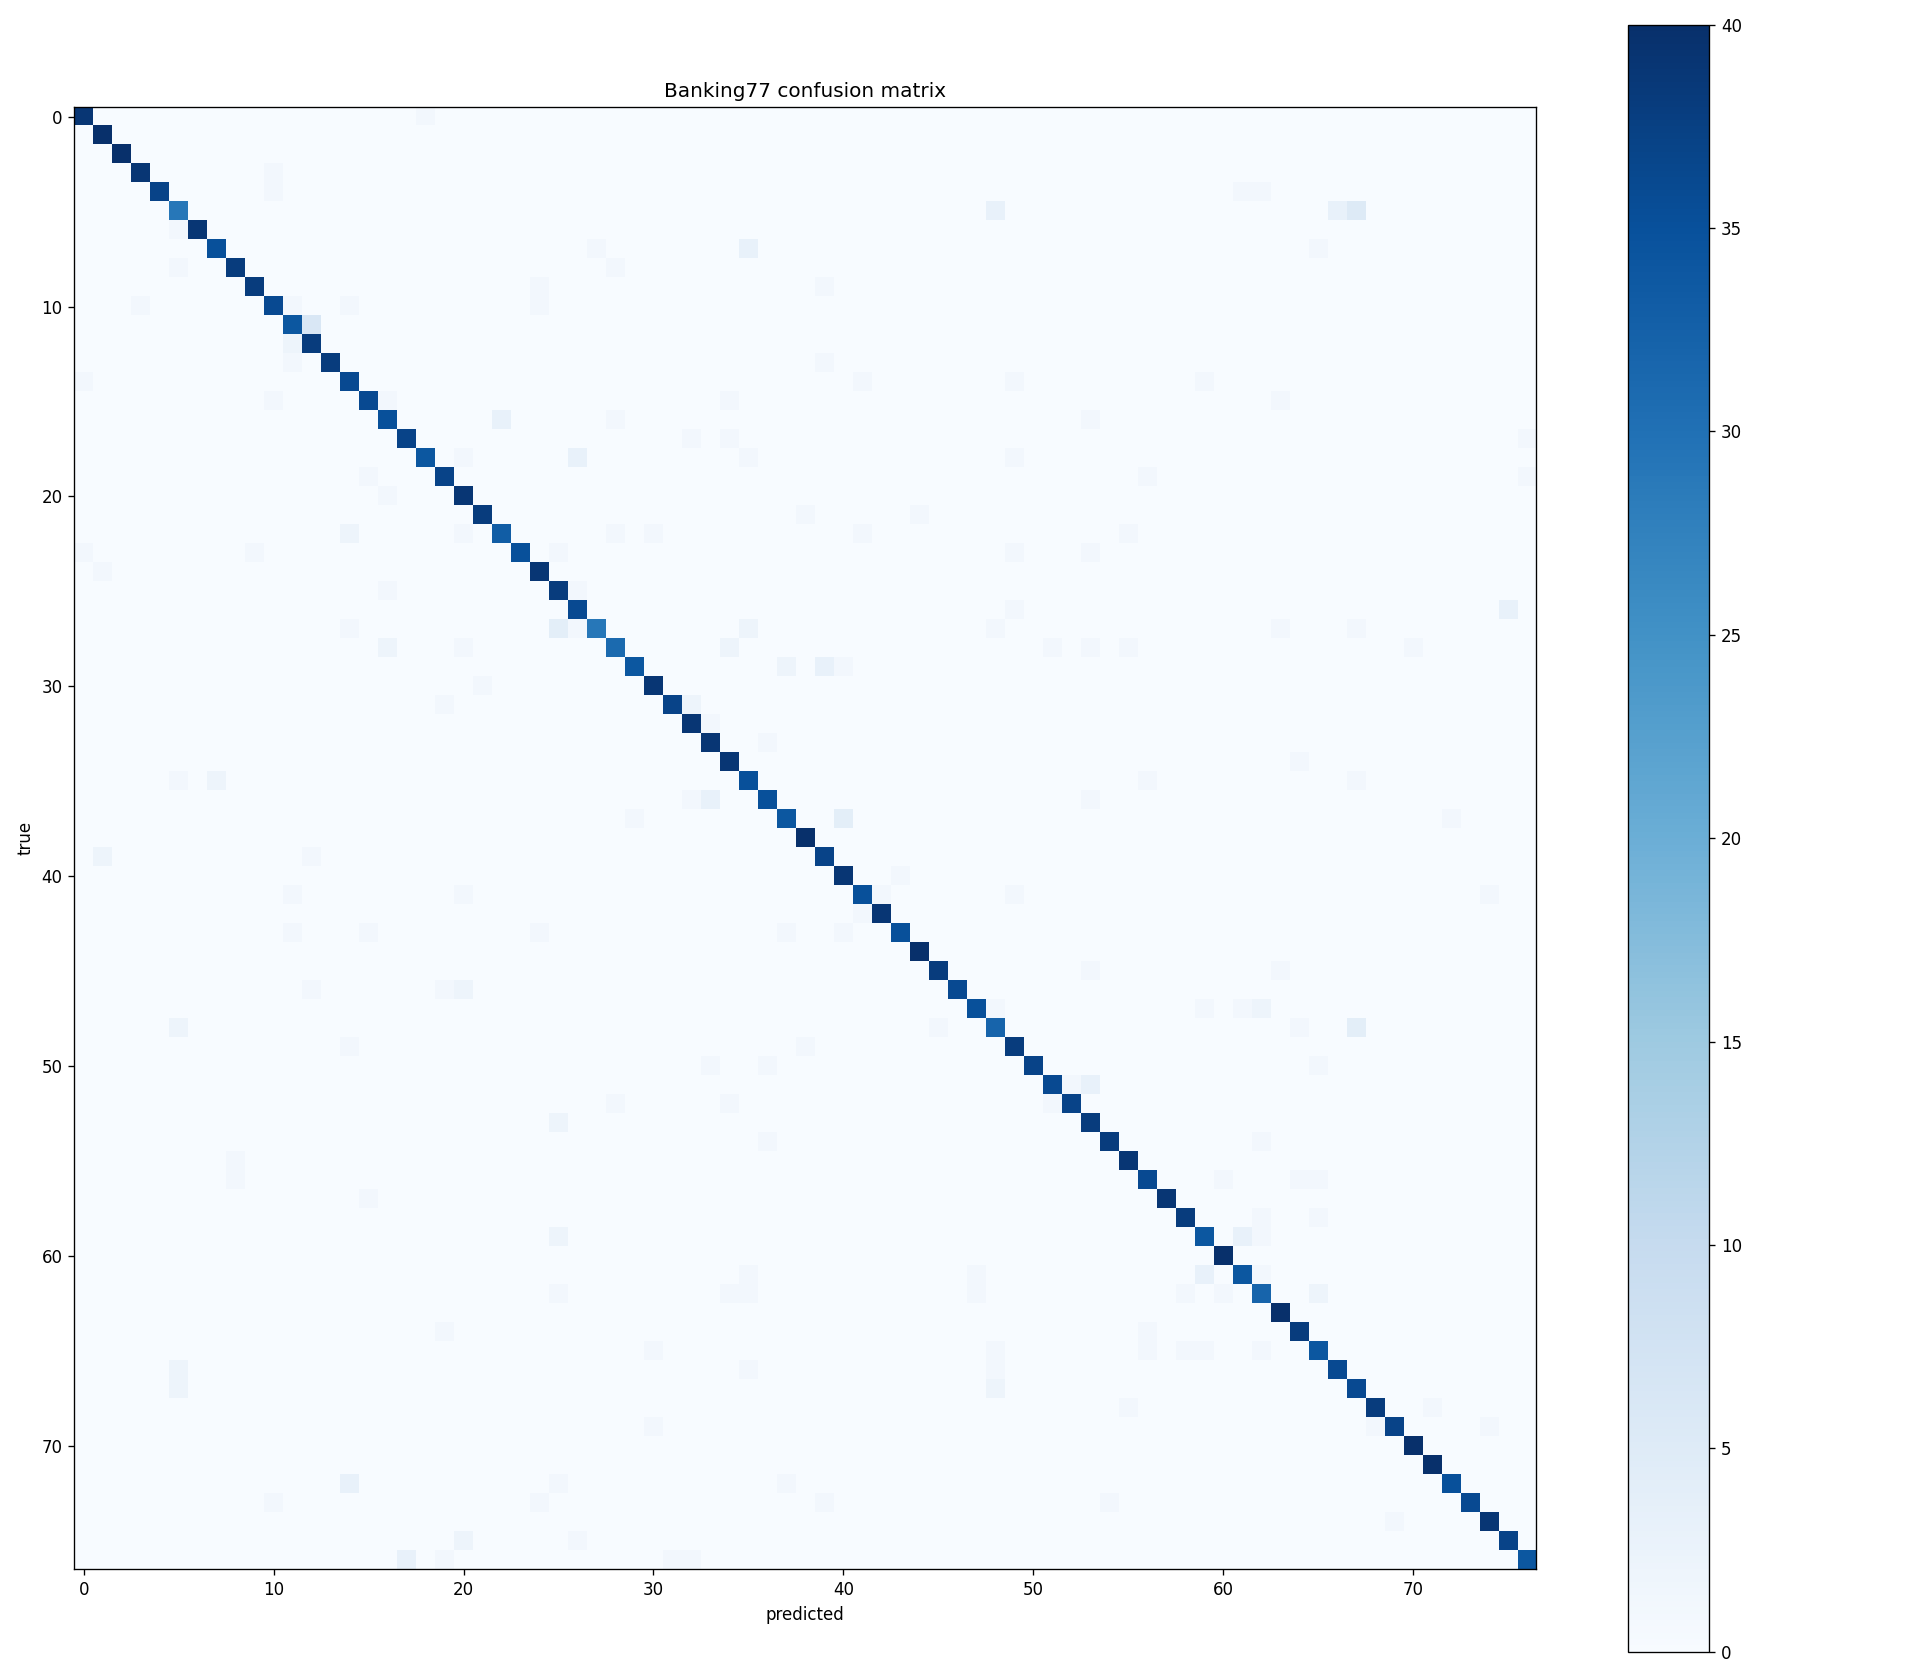
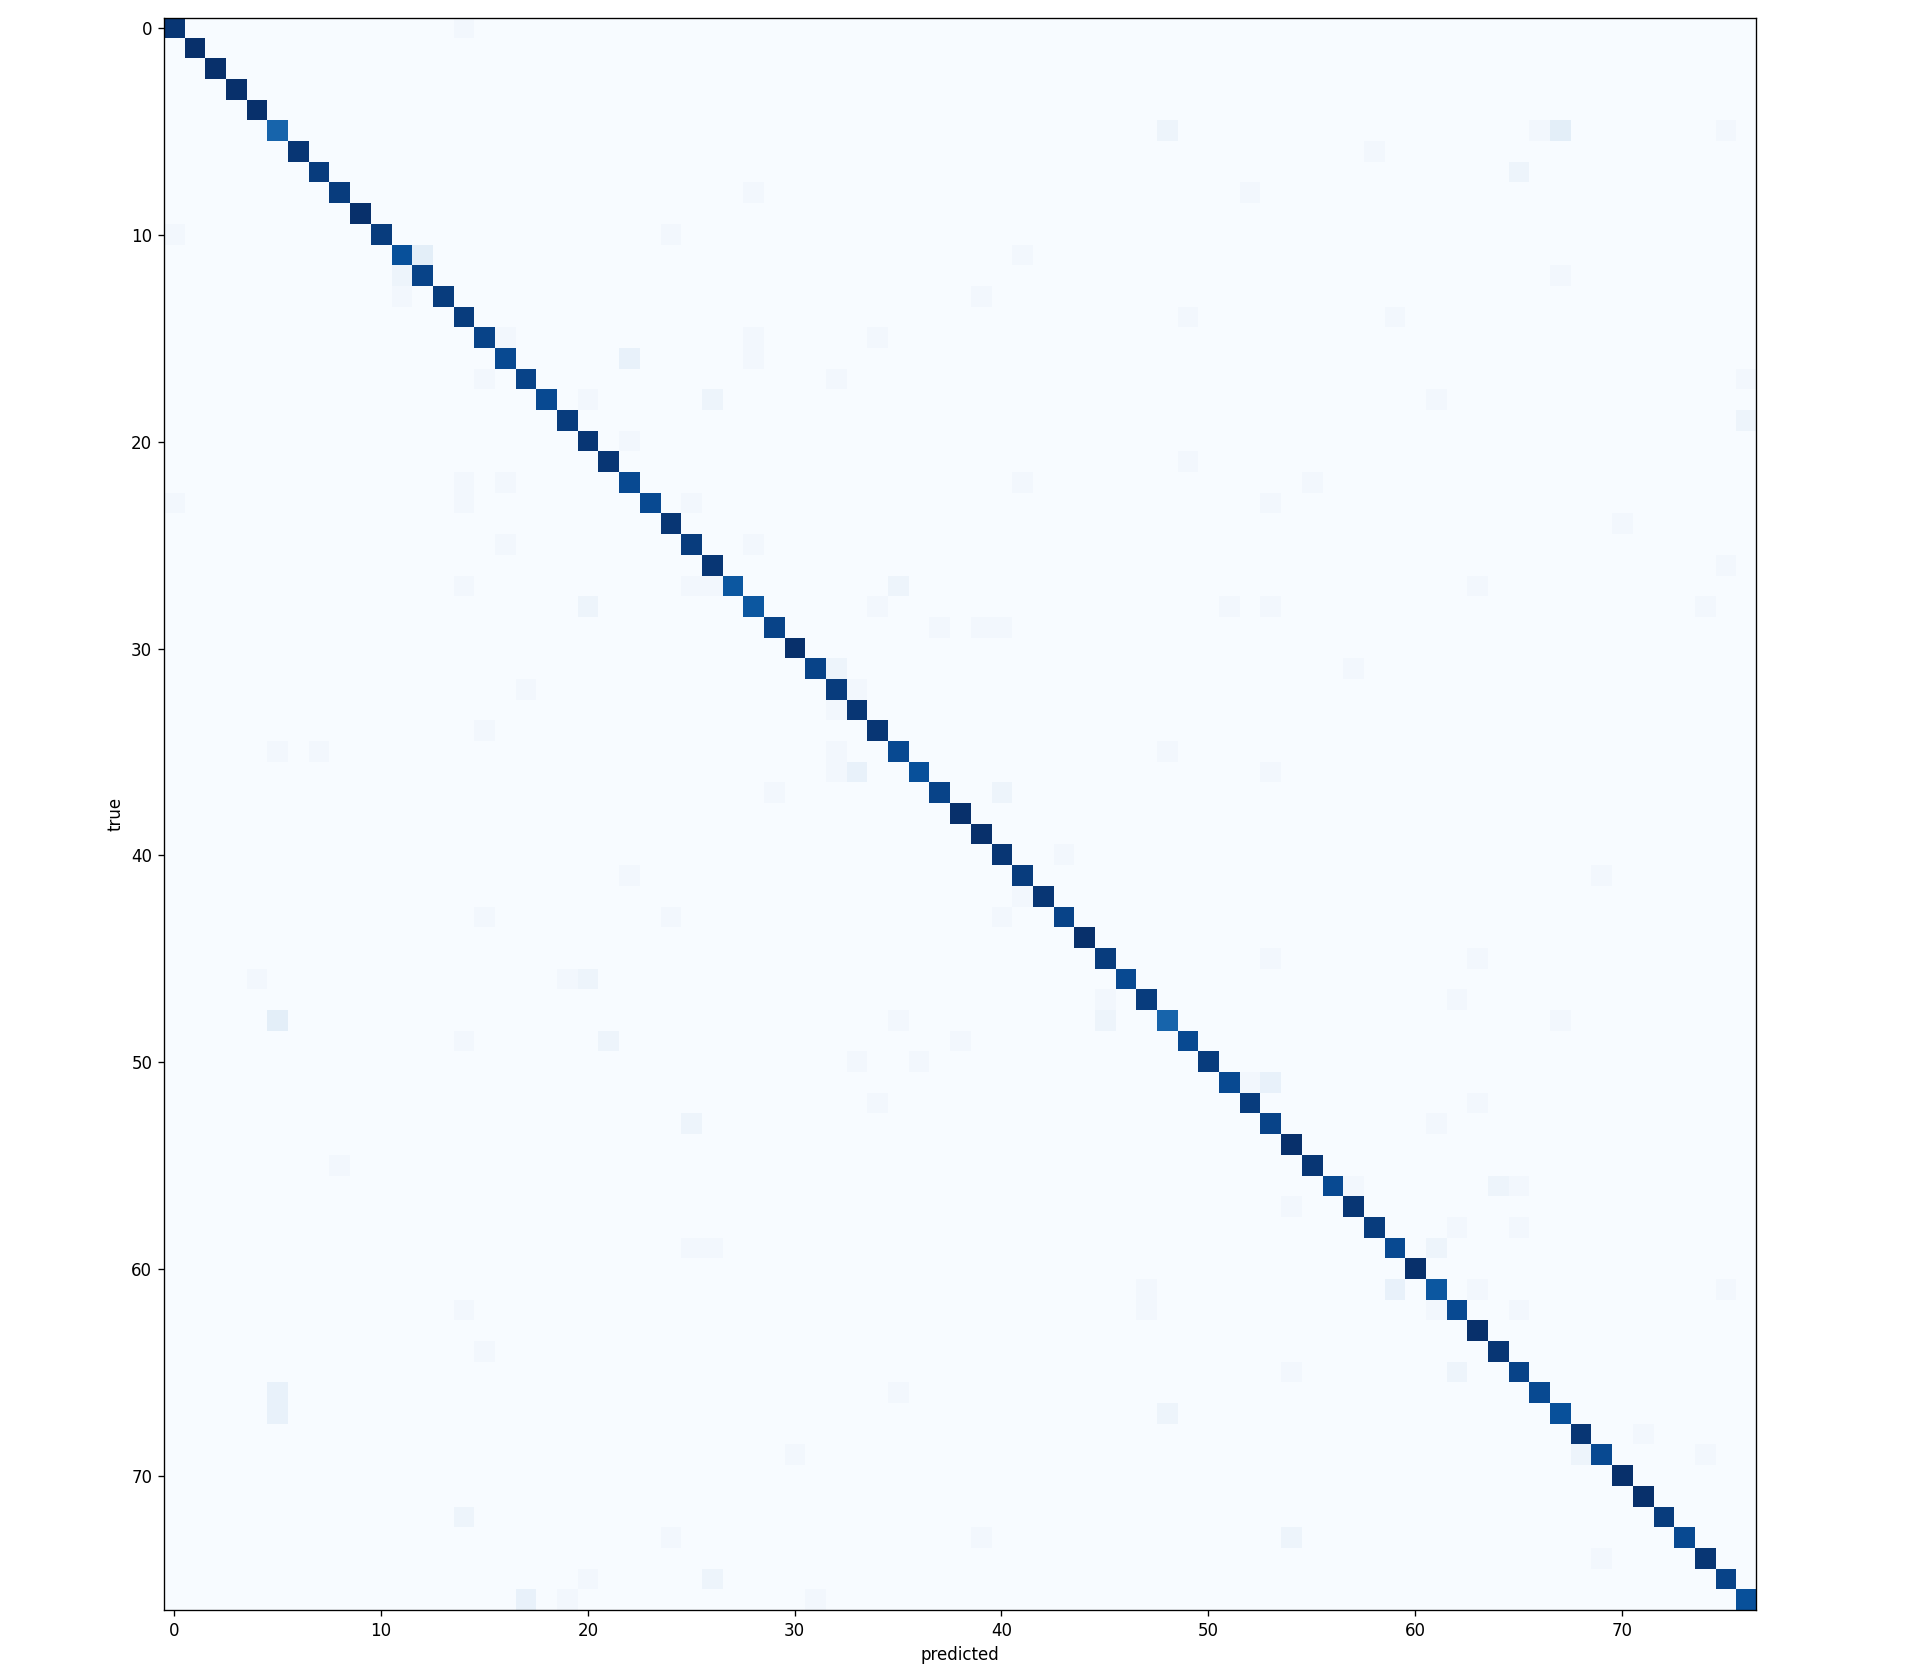
Replace eval artifacts with lr-tuned model outputs; cite new weakest intents

diff --git a/MODEL_CARD.md b/MODEL_CARD.md
@@ -74,8 +74,10 @@ on frozen embeddings reaches 0.8948 macro-F1 — so fine-tuning adds **+4.5 poin
 macro-F1 (0.8948 → 0.9401) on top of that, well clear of the 0.0003 majority-class floor.
 
 At ~0.94 accuracy the residual errors stay concentrated among semantically adjacent
-intents — the closely related transfer / top-up families and look-alike card intents. Full
-per-class breakdown:
+intents. Per-class F1 bottoms out in the transfer / top-up families —
+`balance_not_updated_after_bank_transfer` (0.77), `pending_transfer` (0.83),
+`top_up_reverted` (0.86), `transfer_timing` (0.86) — with most other intents above 0.90.
+Full per-class breakdown:
 [`results/classification_report.txt`](https://github.com/sukhrobnurali/banking77-modernbert/blob/main/results/classification_report.txt);
 77×77 confusion matrix:
 [`results/confusion_matrix.png`](https://github.com/sukhrobnurali/banking77-modernbert/blob/main/results/confusion_matrix.png).